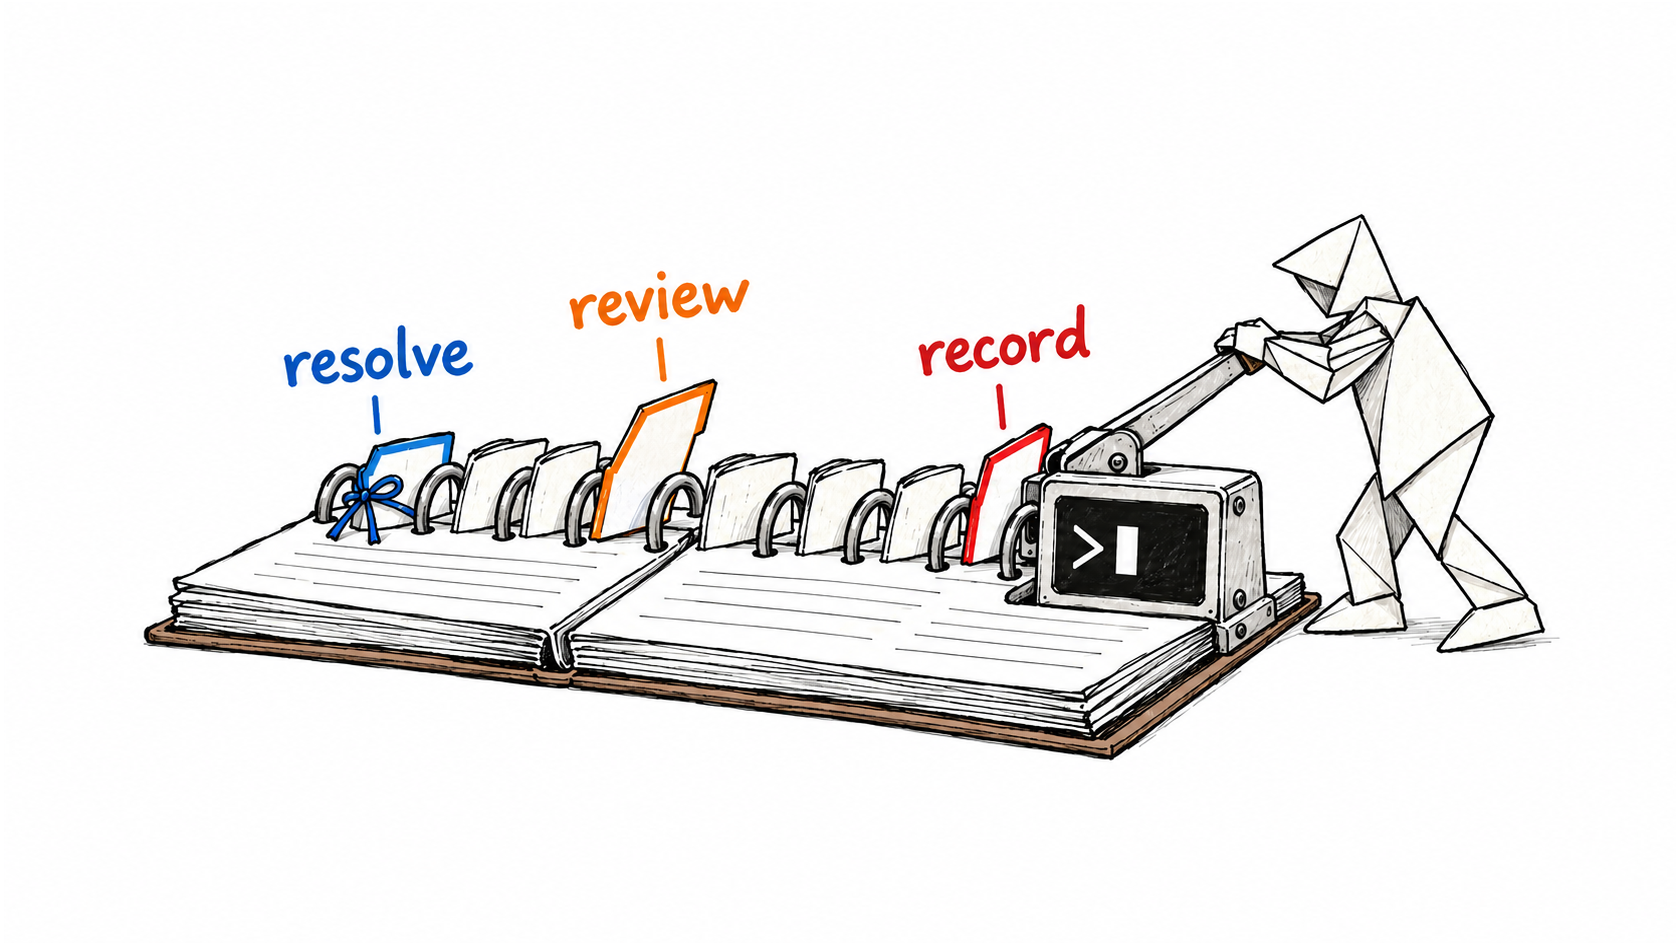
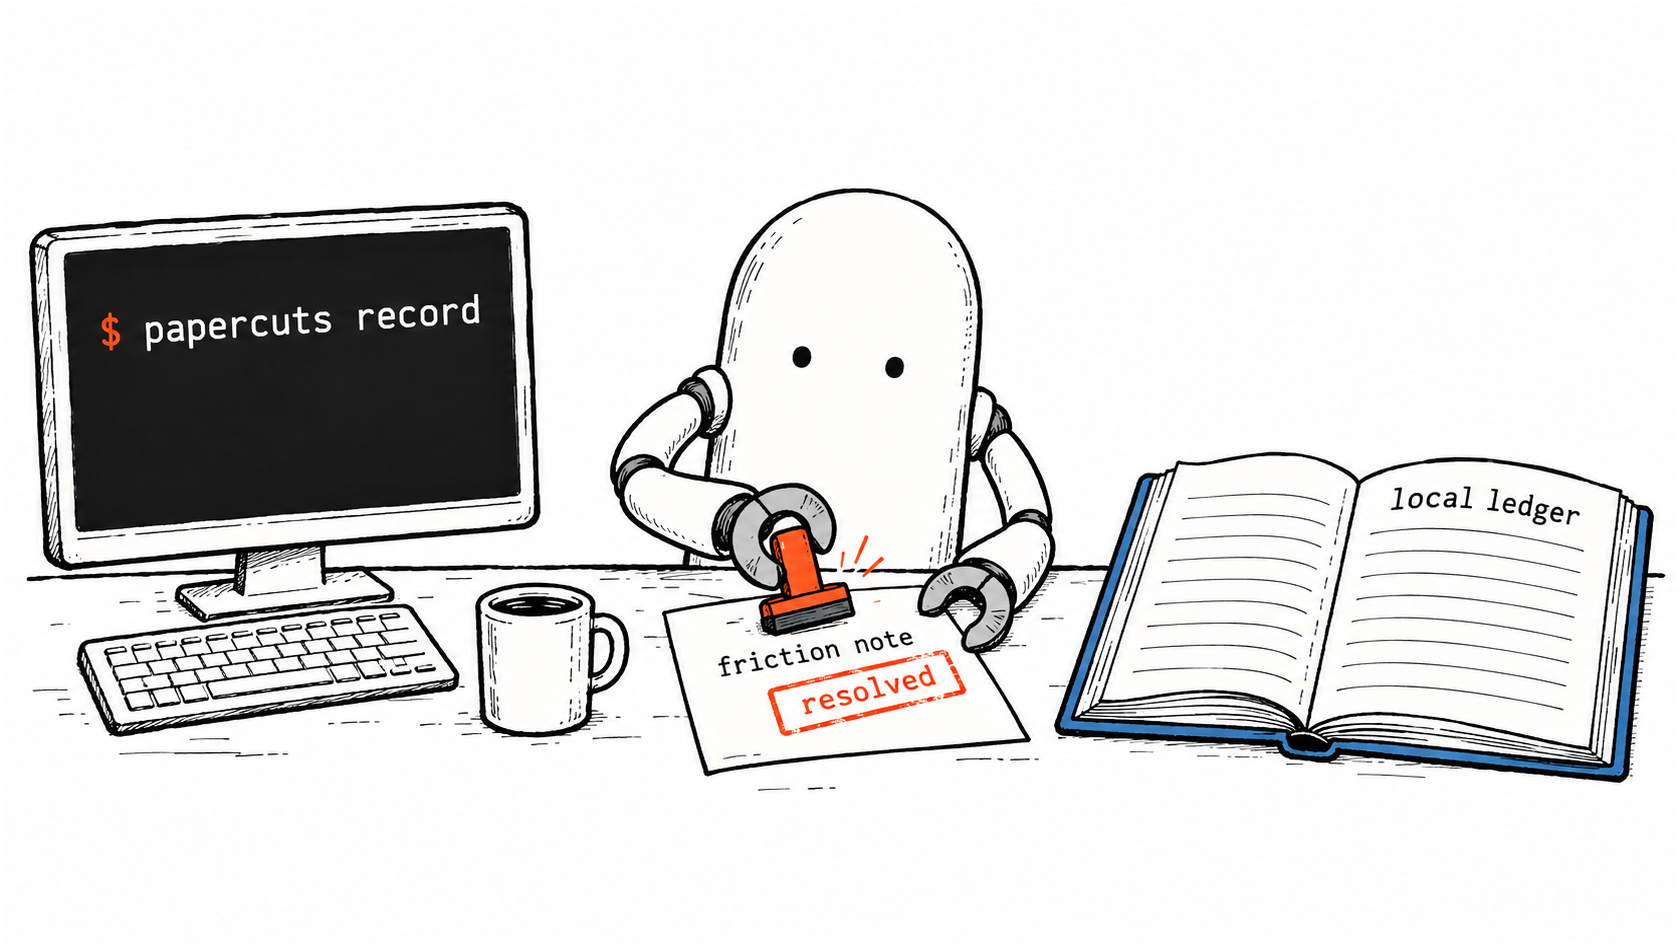
docs: replace README hero with robot archivist

Changed region(s): [[0.0, 0.2148, 0.9905, 0.8286], [0.4643, 0.1841, 0.5571, 0.2455], [0.4643, 0.3683, 0.4952, 0.3989]]

diff --git a/README.md b/README.md
@@ -1,6 +1,6 @@
 # Papercuts CLI
 
-![An original folded-paper worker records, reviews, and resolves workflow friction through a local CLI ledger](docs/assets/readme/papercuts-ledger-hero.png)
+![A hand-drawn robot archivist reviews and resolves a friction note between the Papercuts terminal and a local ledger](docs/assets/readme/papercuts-ledger-hero.png)
 
 > A local-first, append-only ledger for small developer and AI-agent workflow friction.
 
